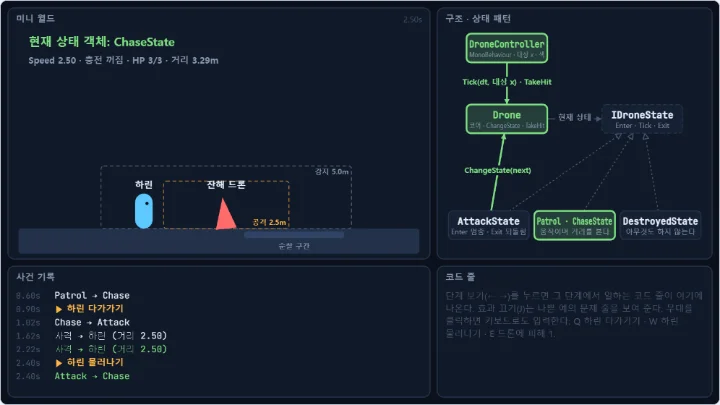
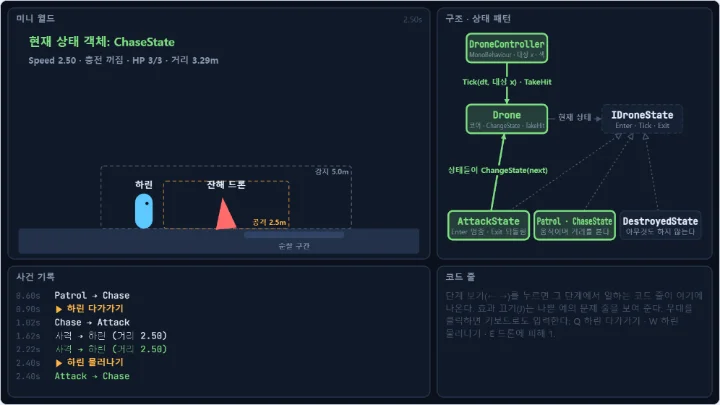
dispatch(state-drone-ai-fix): 표본 수정: state-drone-ai
Dispatch-Job: state-drone-ai-fix
Dispatch-Profile: org
Dispatch-Model: claude-opus-5-5

Changed region(s): [[0.6111, 0.5037, 0.7639, 0.5926], [0.6111, 0.4148, 0.7639, 0.4444]]

diff --git a/src/specimens/state-drone-ai/meta.ts b/src/specimens/state-drone-ai/meta.ts
@@ -18,7 +18,7 @@ export const meta: PatternMeta = {
   difficulty: 2,
   params: [
     { key: 'detectRange', label: '감지 거리', type: 'range', min: 3, max: 8, step: 0.5, default: 5, unit: 'm', hint: '하린이 가로 거리 이 안에 들어오면 순찰을 멈추고 쫓는다 (드론 둘레의 큰 점선 상자). 넓히면 멀리서 알아채고, 물러나서 따돌리기 어렵다' },
-    { key: 'attackRange', label: '공격 거리', type: 'range', min: 1.5, max: 4, step: 0.5, default: 2.5, unit: 'm', hint: '이 안이면 멈춰서 충전하고 쏜다 (주황 점선 상자). 넓히면 하린에게서 더 멀리 떨어져 멈춘다' },
+    { key: 'attackRange', label: '공격 거리', type: 'range', min: 1.5, max: 4, step: 0.5, default: 2.5, unit: 'm', hint: '이 안이면 멈춰서 충전하고 쏜다 (주황 점선 상자). 넓히면 하린에게서 더 멀리 떨어져 멈춘다. 다시 쫓는 것은 이보다 0.5m 더 멀어졌을 때다' },
     { key: 'chargeTime', label: '충전 시간', type: 'range', min: 0.2, max: 1.5, step: 0.1, default: 0.6, unit: '초', hint: '멈춘 뒤 한 발을 쏘기까지의 시간. 충전 막대의 흰 눈금이 이 값이다 (막대 끝은 최대값 1.5초). 나쁜 예는 이 값과 상관없이 한 발도 쏘지 못한다' },
     { key: 'moveSpeed', label: '이동 속도', type: 'range', min: 1, max: 5, step: 0.5, default: 2.5, unit: 'm/s', hint: '순찰과 추격의 빠르기. 공격에서 나갈 때 `AttackState.Exit` 가 속도를 이 값으로 되돌린다. 나쁜 예는 한 번 공격한 뒤로 이 값과 상관없이 0 이다' },
   ],
@@ -26,7 +26,7 @@ export const meta: PatternMeta = {
     { id: 'standard', name: '기본', look: '감지 5m, 공격 2.5m, 0.6초 충전', values: {} },
     { id: 'sniper', name: '멀리서 저격', look: '4m 앞에서 멈추고 1.2초 모아 쏜다', values: { attackRange: 4, chargeTime: 1.2 } },
     { id: 'rapid', name: '빠른 연사', look: '0.3초마다 쏜다', values: { chargeTime: 0.3 } },
-    { id: 'hunter', name: '끈질긴 추격', look: '7.5m 밖에서 알아채고 빠르게 쫓아온다', values: { detectRange: 7.5, moveSpeed: 4 } },
+    { id: 'hunter', name: '끈질긴 추격', look: '7.5m 앞에서 알아채고 빠르게 쫓아온다', values: { detectRange: 7.5, moveSpeed: 4 } },
   ],
   events: [
     { id: 'approach', label: '하린 다가가기' },
@@ -39,7 +39,7 @@ export const meta: PatternMeta = {
       id: 'approach-retreat-destroy',
       label: '다가가 공격받고, 물러났다 다시 다가가 파괴',
       duration: 6.5,
-      note: '자동 데모. 하린이 세 걸음 다가가면 0.60초에 추격, 1.02초에 멈춰서 공격하고 1.62초, 2.22초에 쏜다. 2.40초에 한 걸음 물러나면 `AttackState.Exit` 가 속도를 되돌려 바로 쫓아오고 2.82초에 다시 멈춘다. 3.40초에 다시 다가가고, 피해 세 번 만에 5.40초에 파괴된다. 나쁜 예는 1.62초에 충전이 끝나지 않고(✖), 2.40초에 `state = Chase` 인데 `speed = 0` 이라 제자리에 선다(✖). 3.40초에 하린이 다가와서야 공격 거리에 들지만 4.00초에 또 충전이 끝나지 않는다',
+      note: '자동 데모. 하린이 세 걸음 다가가면 0.60초에 추격, 1.02초에 멈춰서 공격하고 1.62초, 2.22초에 쏜다. 2.40초에 한 걸음 물러나면 `AttackState.Exit` 가 속도를 되돌려 바로 쫓아오고 2.82초에 다시 멈춘다. 3.40초에 다시 다가가고, 피해 세 번 만에 5.40초에 파괴된다. 나쁜 예는 1.62초에 충전이 끝나지 않고(✖), 2.40초에 `state = Chase` 인데 `speed = 0` 이라 제자리에 선다(✖). 3.40초에 하린이 다가와서야 공격 거리에 들지만 4.00초에 또 충전이 끝나지 않는다 (같은 드론의 같은 버그라 ✖ 없이 사건 줄로 남는다)',
       inputs: [
         [0.3, 'approach'],
         [0.6, 'approach'],
@@ -91,7 +91,7 @@ export const meta: PatternMeta = {
     edges: [
       { id: 'ctrl-drone', from: 'ctrl', to: 'drone', label: 'Tick(dt, 대상 x) · TakeHit', kind: 'call' },
       { id: 'drone-state', from: 'drone', to: 'istate', label: '현재 상태', kind: 'ref' },
-      { id: 'change', from: 'attack', to: 'drone', label: 'ChangeState(next)', kind: 'call' },
+      { id: 'change', from: 'attack', to: 'drone', label: '상태들이 ChangeState(next)', kind: 'call' },
       { id: 'i-attack', from: 'attack', to: 'istate', kind: 'implements' },
       { id: 'i-pc', from: 'pc', to: 'istate', kind: 'implements' },
       { id: 'i-destroyed', from: 'destroyed', to: 'istate', kind: 'implements' },
@@ -113,18 +113,18 @@ export const meta: PatternMeta = {
     ],
   },
   steps: [
-    { n: 1, label: '상태가 거리를 보고 다음을 정한다', body: '`DroneController` 가 매 프레임 하린의 x 를 `Drone.Tick` 에 넘기면, 드론은 지금 상태 객체의 `Tick` 에 맡긴다. `PatrolState` 는 감지 거리를, `ChaseState` 는 감지·공격 거리를, `AttackState` 는 공격 거리를 보고 넘어갈 때가 되면 `d.ChangeState(…)` 를 부른다. 체력은 `TakeHit` 이 보고 HP 가 0 이면 어느 상태에서든 `Destroyed` 로 바꾼다. 입력이 아니라 거리와 체력이 전이를 일으킨다.', target: 'ctrl-drone,pc,attack' },
+    { n: 1, label: '상태가 거리를 보고 다음을 정한다', body: '`DroneController` 가 매 프레임 하린의 x 를 `Drone.Tick` 에 넘기면, 드론은 지금 상태 객체의 `Tick` 에 맡긴다. `PatrolState` 는 감지 거리를, `ChaseState` 는 감지·공격 거리를, `AttackState` 는 공격 거리 + 0.5m(`LeaveMargin`)를 보고 넘어갈 때가 되면 `d.ChangeState(…)` 를 부른다. 공격에 들어가는 경계(2.5m)와 나가는 경계(3.0m)를 띄워 두어, 하린이 경계에서 천천히 물러나도 매 프레임 공격과 추격을 오가지 않는다. 피해(`hit`)는 `TakeHit` 이 받아 HP 가 0 이면 어느 상태에서든 `Destroyed` 로 바꾼다. 입력을 상태에 넘기지 않고, 드론이 조건(거리는 상태의 `Tick`, HP 는 `TakeHit`)을 보고 스스로 전이한다. `state-player-actions` 는 상태의 `Tick` 이 다음 상태를 돌려주고 `Player` 가 바꾸지만, 여기서는 상태가 `ChangeState` 를 직접 부른다.', target: 'ctrl-drone,pc,attack,change' },
     { n: 2, label: 'ChangeState 가 먼저 Exit 를 부른다', body: '상태는 `Drone.ChangeState` 한 곳에서만 바뀐다 (`State` 의 setter 는 `private`). 공격 중에 하린이 물러나면(자동 데모 2.40초) `AttackState.Tick` 이 `ChangeState(Chase)` 를 부르고, `ChangeState` 는 먼저 `AttackState.Exit` 를 불러 `Speed` 를 `moveSpeed` 로 되돌리고 충전을 끈다. 피해로 파괴될 때도 같은 `Exit` 를 지난다.', target: 'change,attack' },
     { n: 3, label: '다음 상태의 Enter 를 한 번', body: '그다음 들어가는 상태의 `Enter` 를 한 번 부른다. `AttackState.Enter` 가 `Speed` 를 0 으로 해 멈추고 충전을 0 에서 시작한다. 한 번만 부르므로 충전이 `chargeTime` 까지 차서 쏜다 (1.02초 진입, 1.62초 사격). 충전 막대의 흰 눈금이 `chargeTime` 이고 막대 끝은 최대값 1.5초다.', target: 'change,drone,attack' },
-    { n: 4, label: 'Tick 은 지금 상태의 일만', body: '`Drone.Tick` 에는 상태를 묻는 `switch` 가 없다. 움직이는 것은 `PatrolState` 와 `ChaseState` 뿐이고, `AttackState.Tick` 은 충전하고 쏘기만, `DestroyedState.Tick` 은 아무것도 하지 않는다. 충전한 시간과 속도는 `Drone` 이 들고 상태 객체는 `DroneStates` 의 static 한 벌이라, 드론이 몇 대든 같은 객체를 같이 쓴다.', target: 'drone-state,istate' },
+    { n: 4, label: 'Tick 은 지금 상태의 일만', body: '`Drone.Tick` 에는 상태를 묻는 `switch` 가 없다. 움직이는 것은 `PatrolState` 와 `ChaseState` 뿐이고, `AttackState.Tick` 은 대상 쪽으로 돌아보며 충전하고 쏘기만, `DestroyedState.Tick` 은 아무것도 하지 않는다. 충전한 시간과 속도는 `Drone` 이 들고 상태 객체는 `DroneStates` 의 static 한 벌이라, 드론이 몇 대든 같은 객체를 같이 쓴다.', target: 'drone-state,istate' },
   ],
-  offNote: '`enum DroneState` 와 `Update` 안의 `switch` 로 짠 흔한 코드다. 추격 case 가 공격으로 바꿀 때 `speed = 0` 을 하지만 공격 case 에서 나가는 곳에는 되돌리는 줄이 없어서, 하린이 공격 거리 밖으로 물러나면 `state = Chase` 인데 `speed = 0` 이라 드론이 제자리에 선다 (발밑의 빨간 "제자리"). 감지 거리 밖까지 물러나 `Patrol` 로 바뀌어도 그대로 서 있다. 또 공격 case 가 들어갈 때 한 번 할 충전 시작(`StartCharge`)을 매 프레임 불러 `chargeTimer` 가 0.02 에 머물고, 언제 공격에 들어가든 한 발도 쏘지 못한다 (충전 막대가 비어 있고 사격 0번). 기록의 ✖ 줄이 두 버그가 시작된 순간이다.',
+  offNote: '`enum DroneState` 와 `Update` 안의 `switch` 로 짠 흔한 코드다. 추격 case 가 공격으로 바꿀 때 `speed = 0` 을 하지만 공격 case 에서 나가는 곳에는 되돌리는 줄이 없어서, 하린이 공격 거리 밖으로 물러나면 `state = Chase` 인데 `speed = 0` 이라 드론이 제자리에 선다 (발밑의 빨간 "제자리"). 감지 거리 밖까지 물러나 `Patrol` 로 바뀌어도 그대로 서 있다. 또 공격 case 가 들어갈 때 한 번 할 충전 시작(`StartCharge`)을 매 프레임 불러 `chargeTimer` 가 0.02 (0 으로 돌린 뒤 한 프레임 dt, 1/60초를 더한 값)에 머물고, 언제 공격에 들어가든 한 발도 쏘지 못한다 (충전 막대가 비어 있고 사격 0번). 기록의 ✖ 줄이 두 버그가 시작된 순간이다.',
   mistakes: [
     { title: '공격하다 플레이어가 물러났는데 적이 제자리에 서서 안 쫓아온다', body: '공격에 들어갈 때 멈춘 속도(`speed = 0`)를 나갈 때 되돌리지 않았다. `switch` 에는 "이 상태에서 나갈 때" 의 자리가 없어서 나가는 길(추격으로, 파괴로)마다 되돌리는 줄을 따로 넣어야 하고, 하나만 빠져도 멈춘다. 들어갈 때 바꾼 것은 그 상태의 `Exit` 에서 되돌리고, 전이는 `ChangeState` 한 곳에서 해서 어느 길로 나가든 `Exit` 를 지나게 한다.' },
     { title: '충전 막대가 차지 않고 적이 한 번도 쏘지 않는다', body: '충전 시작, 애니메이션 트리거, 효과음처럼 들어갈 때 한 번 할 일을 `case` 안, 곧 매 프레임 도는 자리에 두었다. 같은 값을 넣는 `speed = 0` 은 매 프레임 해도 티가 나지 않아 괜찮아 보이지만, 타이머를 0 으로 되돌리는 일은 매 프레임 하면 끝나지 않는다. 한 번 할 일은 `Enter` 에, 매 프레임 할 일만 `Tick` 에 둔다.' },
-    { title: 'Exit 를 만들었는데도 가끔 속도가 돌아오지 않는다', body: '`state = …` 처럼 상태를 직접 바꾸는 줄이 `ChangeState` 밖에 남아 있어, 그 길로 나가면 `Exit` 와 `Enter` 의 짝이 깨진다. 이 표본은 `Drone.State` 의 setter 를 `private` 로 막아 `ChangeState` 로만 바꿀 수 있다. 피해로 파괴될 때도 `TakeHit` 이 `ChangeState(Destroyed)` 를 불러 `AttackState.Exit` 를 지난다.' },
+    { title: '충전 중에 맞아 파괴됐는데 충전 효과가 꺼지지 않는다', body: '피해 처리(`TakeHit`)는 상태의 `Tick` 밖, 플레이어의 공격 판정 같은 다른 스크립트에서 불린다. 거기서 `state = Destroyed` 처럼 바로 바꾸면 (나쁜 예의 `TakeHit` 이 그렇다) `AttackState.Exit` 를 건너뛰어 충전 표시와 충전 이펙트·소리가 켜진 채 남는다. 이 표본은 `Drone.State` 의 setter 를 `private` 로 막아 `TakeHit` 도 `ChangeState(Destroyed)` 를 거쳐 `Exit` 를 지난다. 상태 밖에서 오는 전이일수록 이 길을 지나는지 본다.' },
     { title: '드론 두 대를 놓았더니 한 대가 쏠 때 다른 대의 충전도 처음부터 다시 찬다', body: '상태 객체 안에 충전 시간 같은 드론별 값을 두고, 그 상태 객체를 여러 드론이 같이 썼다. 한 드론이 쏘고 값을 0 으로 돌리면 다른 드론의 값도 0 이 된다. 이 표본은 상태 객체를 `DroneStates` 의 static 한 벌로 같이 쓰는 대신 `ChargeTimer`, `Speed`, `Hp` 를 `Drone` 에 둔다. 상태 객체에 값을 꼭 두고 싶으면 드론마다 상태 객체를 새로 만든다.' },
-    { title: '파괴된 드론이 미끄러지거나 떨린다', body: '파괴 상태여도 다른 스크립트(넉백, 물리, 다른 이동 코드)가 같은 오브젝트를 계속 움직인다. 이 표본의 `DestroyedState.Tick` 은 아무것도 하지 않아 코어의 X 가 그대로이고, 어댑터는 매 `Update` 에 위치를 그 X 로 덮어쓴다. 그래서 다른 코드가 옮겨도 다음 프레임에 제자리로 돌아오는데, 그 사이가 떨림으로 보인다. 다른 이동 코드는 `Destroyed` 이벤트에서 끄거나, Rigidbody 가 있으면 그때 `isKinematic` 을 켠다.' },
+    { title: '넉백을 넣었는데 드론이 밀리지 않거나 한 프레임 튀고 돌아온다', body: '이 어댑터의 `Update` 는 상태와 상관없이 매 프레임 `transform.position` 을 코어의 `X` 로 덮어쓴다. 다른 스크립트(넉백, 폭발에 밀림)가 같은 오브젝트를 옮기면, 그 스크립트가 먼저 돌 때는 덮여서 조용히 무시되고, 나중에 돌 때는 그 프레임만 옮긴 자리에 그려졌다가 다음 프레임에 돌아온다. 어느 쪽인지는 스크립트 실행 순서에 달려 있어 찾기 어렵다. 위치의 주인은 하나만 둔다. 넉백도 코어에 알려 `X` 를 바꾸게 하거나 (`Drone` 에 `Push(dx)` 같은 메서드를 더한다), 파괴 뒤 물리로 떨어뜨리려면 `Destroyed` 이벤트에서 어댑터가 위치 덮어쓰기를 멈추고 Rigidbody 에 넘긴다.' },
   ],
   unity: {
     setup: [
@@ -133,17 +133,17 @@ export const meta: PatternMeta = {
       '드론에 `DroneController` 를 붙인다. 붙이는 순간 `Reset` 이 시연용 피해 키(H)와 `Body Renderer` 칸(같은 오브젝트의 Sprite Renderer 나 Mesh Renderer)을 채운다. 상태가 바뀔 때마다 이 렌더러의 색이 바뀐다 (순찰 회청색, 추격 주황, 공격 빨강, 파괴 검정).',
       '`Target` 칸에 플레이어 오브젝트를 끌어 넣는다. 웹 무대의 다가가기·물러나기(Q/W)는 하린을 움직이는 시연용 입력이라 Unity 어댑터에는 없다. 수강생의 플레이어를 원래 이동 코드 그대로 드론 쪽으로 걸리면 된다. 드론은 플레이어의 x 좌표만 본다. 플레이어가 아직 없으면 Cube 하나를 (-4, 0, 0) 에 두고 Play 중 Scene 뷰에서 x 로 끌어 옮겨도 된다.',
       '`Main Camera` 를 Position (1, 1.5, -10) 에 두고 Projection 을 `Orthographic`, Size 를 5 로 한다 (2D 템플릿은 처음부터 Orthographic 이다). x -8 부터 10 쯤까지 보여 순찰 구간과 플레이어가 함께 보인다.',
-      'Animator 가 있으면 `Animator` 칸에 넣고 상태 이름과 같은 Animator 상태(Patrol, Chase, Attack, Destroyed)를 만든다. Patrol 을 기본 상태(Set as Layer Default State)로 둔다. 시작 상태는 바뀐 적이 없어 CrossFade 되지 않기 때문이다.',
+      'Animator 가 있으면 `Animator` 칸에 넣고 상태 이름과 같은 Animator 상태(Patrol, Chase, Attack, Destroyed)를 만든다. Patrol 을 기본 상태(Set as Layer Default State)로 둔다. 상태가 바뀌면 어댑터가 `CrossFadeInFixedTime(상태 이름, 0.05초)` 로 넘기므로 Animator 쪽 전이 화살표는 만들지 않는다. 켤 때(`OnEnable`)는 지금 코어 상태로 `Play` 해 맞춘다.',
       'Play 하고 플레이어를 드론에 다가가게 했다가 물러나 본다. Console 에 `[Drone] Patrol → Chase`, `[Drone] Chase → Attack`, `[Drone] 사격 → 대상 (거리 2.48)` 같은 줄이 남고, Game 뷰 왼쪽 위에 지금 상태, 속도, HP 가 보인다. H 를 세 번 누르면 `Attack → Destroyed` (공격 중이었다면) 와 `파괴` 가 남는다.',
     ],
-    verify: '공격 거리 안에 서 있으면 `chargeTime` 마다 Console 에 `사격` 줄이 남고, 물러나면 `Attack → Chase` 가 남으며 왼쪽 위 속도가 0.0 에서 `moveSpeed` 로 돌아와 드론이 곧바로 다시 쫓아온다.',
+    verify: '공격 거리 안에 서 있으면 `chargeTime` 마다 Console 에 `사격` 줄이 남고, 물러나면 `Attack → Chase` 가 남으며 왼쪽 위 속도가 0.0 에서 `moveSpeed` 로 돌아와 드론이 곧바로 다시 쫓아온다. 플레이어를 공격 거리 경계에서 천천히 물러나게 해도 `Attack → Chase` 는 공격 거리보다 0.5m 더 멀어졌을 때 한 번만 남고, 매 프레임 쌓이지 않는다.',
     pitfalls: [
       '거리는 가로(x) 거리다. 어댑터는 플레이어의 y 와 z 를 보지 않고, 드론의 y·z 도 시작 자리 그대로 둔다 (시작 자리에 코어의 X 만 더한다). 3D 에서 z 로도 걷는 게임이면 `Drone.Distance` 를 평면 거리로 바꾸고 코어에 x, z 를 함께 넘긴다.',
       '이 표본은 원리를 보이려고 `transform.position` 을 직접 옮기고 벽이나 바닥과의 충돌을 보지 않는다. 장애물을 돌아와야 하면 `ChaseState` 가 정한 목표를 NavMeshAgent 같은 이동 컴포넌트에 넘기고, 멈추기(`AttackState.Enter`)와 되돌리기(`AttackState.Exit`)도 그 컴포넌트의 `isStopped` 로 옮긴다. 짝은 그대로 Enter 와 Exit 에 둔다.',
-      '`Time.timeScale` 이 0 이어도 `Update` 는 돌아 `Tick(0)` 이 불린다. 이동과 충전은 멈추지만 거리로 넘어가는 전이는 그대로 일어나고 (일시정지 중 Scene 뷰에서 플레이어를 옮기면 상태가 바뀐다), 시연용 피해 키(H)도 그대로 받는다. 일시정지 중 조작을 막으려면 입력도 함께 끈다.',
-      '드론을 여러 대 놓아도 상태 객체는 `DroneStates` 의 static 한 벌을 같이 쓴다. 충전 시간, 속도, HP 는 드론마다 `Drone` 이 따로 들어 섞이지 않는다. 화면 글(`Show Status On Screen`)은 모두 같은 자리에 그려지므로 한 대만 켠다.',
-      '3D 의 `Body Renderer` 색은 `material` 로 칠해 그 렌더러만의 머티리얼 사본을 만든다. 같은 머티리얼을 쓰는 다른 오브젝트에는 번지지 않는다. `maxHp` 는 Play 를 시작할 때만 읽고, 나머지 조절 값은 Play 중에 바꿔도 `OnValidate` 가 코어에 넣는다.',
-      '`InputAction` 은 `OnEnable` 에서 콜백을 붙이고 `Enable`, `OnDisable` 에서 떼고 `Disable` 한다. 떼지 않으면 다시 켤 때 콜백이 두 번 붙어 한 번 누를 때 피해가 두 번 들어간다. 코드에서 만드는 액션은 `InputActionType.Button` 으로 만든다.',
+      '`Time.timeScale` 이 0 이어도 `Update` 는 돌아 `Tick(0)` 이 불린다. 이동과 충전은 멈추지만 거리로 넘어가는 전이는 그대로 일어나고 (일시정지 중 Scene 뷰에서 플레이어를 옮기면 상태가 바뀐다), 시연용 피해 키(H)도 그대로 받는다. 일시정지 중 조작을 막으려면 입력도 함께 끈다. `InputAction` 은 `OnEnable` 에서 콜백을 붙이고 `Enable`, `OnDisable` 에서 떼고 `Disable` 한다. 떼지 않으면 다시 켤 때 콜백이 두 번 붙어 한 번 누를 때 피해가 두 번 들어간다.',
+      '거리로 전이하는 상태는 Unity 의 연속 이동에서 경계 위를 오갈 수 있다. 공격에 들어가는 경계(`<= attackRange`)와 나가는 경계가 같으면, 플레이어가 드론보다 느리게 계속 물러날 때 멈춤 → 벗어남 → 한 프레임 쫓아 다시 들어옴이 매 프레임 되풀이되어 `CrossFade` 가 매 프레임 불리고 충전이 늘 처음부터라 한 발도 쏘지 못한다. 그래서 `AttackState` 는 `attackRange + LeaveMargin`(0.5m)을 넘어야 나간다. 웹 시나리오는 하린이 1m 걸음으로 움직여 이 깜박임이 보이지 않는다. 여유를 바꾸려면 `AttackState.LeaveMargin` 을 고친다.',
+      '드론을 여러 대 놓아도 상태 객체는 `DroneStates` 의 static 한 벌을 같이 쓴다. 충전 시간, 속도, HP 는 드론마다 `Drone` 이 따로 들어 섞이지 않는다. 화면 글(`Show Status On Screen`)은 확인용 IMGUI(`OnGUI` 의 `GUI.Label`)이고 실제 게임의 표시는 UGUI·TextMeshPro 로 만든다. 모든 드론이 같은 자리에 그리므로 여럿이면 한 대만 켠다.',
+      '색과 Animator 상태는 `StateChanged` 이벤트로만 맞춘다. 드론 오브젝트를 껐다 켜면 Animator 는 기본 상태(Patrol)로 돌아가지만 코어는 공격·파괴 그대로라, `OnEnable` 에서 지금 코어 상태로 색을 칠하고 `Animator.Play` 한다. 3D 의 `Body Renderer` 색은 `material` 로 칠해 그 렌더러만의 머티리얼 사본을 만든다. `maxHp` 는 Play 를 시작할 때만 읽고, 나머지 조절 값은 Play 중에 바꿔도 `OnValidate` 가 코어에 넣는다 (지금 속도는 순찰·추격일 때만 바로 바꾸고, 공격 중이면 `AttackState.Exit` 가 나갈 때 새 값을 넣는다).',
     ],
   },
   prompt: {
@@ -163,7 +163,7 @@ export const meta: PatternMeta = {
     { label: 'Unity 전자책: 디자인 패턴과 SOLID 로 코드 레벨업 (상태 패턴 장)', url: 'https://unity.com/resources/design-patterns-solid-ebook' },
   ],
   related: [
-    { id: 'state-player-actions', why: '같은 상태 패턴인데 그쪽은 플레이어 입력으로 전이하고 나쁜 예가 bool 플래그 덩어리이고, 이쪽은 거리와 체력으로 스스로 전이하고 나쁜 예가 enum + switch 다' },
+    { id: 'state-player-actions', why: '같은 상태 패턴인데 그쪽은 입력을 상태에 넘겨 상태가 거르고 `Tick` 이 다음 상태를 돌려주며 나쁜 예가 bool 플래그 덩어리다. 이쪽은 입력을 상태에 넘기지 않고 상태가 거리를 보고 `ChangeState` 를 직접 부르며 나쁜 예가 enum + switch 다' },
     { id: 'strategy-turret-targeting', why: '구조는 비슷하다. 다음 상태를 스스로 정하면 상태, 바깥이 골라 끼우면 전략이다. 드론이 누구를 쏠지 고르는 일은 전략으로 뺄 수 있다' },
     { id: 'observer-health-events', why: '`Damaged`, `Destroyed` 를 이벤트로 알리면 HP 바, 소리, 점수가 드론을 모른 채 각자 구독한다' },
   ],

diff --git a/src/specimens/state-drone-ai/sim.ts b/src/specimens/state-drone-ai/sim.ts
@@ -144,6 +144,9 @@ const ChaseState: IDroneState = {
   },
 }
 
+/** AttackState.LeaveMargin: 공격 거리 + 이만큼보다 멀어져야 추격으로 나간다 (들어가는 경계와 나가는 경계를 띄운다) */
+const LeaveMargin = f(0.5)
+
 const AttackState: IDroneState = {
   Name: 'Attack',
   Enter(d) {
@@ -158,10 +161,11 @@ const AttackState: IDroneState = {
     d.Charging = false
   },
   Tick(d, dt) {
-    if (d.Distance > d.Settings.AttackRange) {
+    if (d.Distance > f(d.Settings.AttackRange + LeaveMargin)) {
       d.ChangeState(DroneStates.Chase)
       return
     }
+    d.FaceTarget()
     d.ChargeTimer = f(d.ChargeTimer + dt)
     if (d.ChargeTimer >= d.Settings.ChargeTime) {
       d.Fire()
@@ -175,6 +179,7 @@ const DestroyedState: IDroneState = {
   Enter(d) {
     d.Speed = 0
   },
+  /** 나가는 전이가 없어 되돌리지 않는다. 부활을 더하면 여기서 속도를 되돌린다 */
   Exit() {},
   Tick() {},
 }
@@ -204,7 +209,6 @@ class NaiveDrone {
   speed = 0
   hp = 0
   chargeTimer = 0
-  isCharging = false
   shots = 0
 
   Start() {
@@ -219,7 +223,6 @@ class NaiveDrone {
   }
 
   StartCharge() {
-    this.isCharging = true
     this.chargeTimer = 0
   }
 
@@ -308,7 +311,12 @@ function scene(d: DroneLook, harinX: number, chargeColor: string, chargeLabel: s
       { kind: 'text', x: d.x + d.attack - 0.12, y: 1.15, text: `공격 ${d.attack.toFixed(1)}m`, align: 'right', size: 16, color: C.warn },
     )
   }
-  world.push({ kind: 'actor', x: d.x, y: 1, role: 'enemy', label: destroyed ? '잔해 드론 · 파괴' : '잔해 드론', pose: POSE[d.state], facing: d.facing === 1 ? 1 : -1 })
+  world.push({ kind: 'actor', x: d.x, y: 1, role: 'enemy', label: destroyed ? undefined : '잔해 드론', pose: POSE[d.state], facing: d.facing === 1 ? 1 : -1 })
+  if (destroyed) {
+    // 쓰러진 드론의 이름표는 낮게 놓이므로 가운데에 두면 가까이 선 하린과 겹친다. 하린 반대쪽으로 붙여 쓴다
+    const away = harinX <= d.x ? 1 : -1
+    world.push({ kind: 'text', x: d.x - away * 0.25, y: 1.75, text: '잔해 드론 · 파괴', align: away > 0 ? 'left' : 'right', size: 20, color: C.text })
+  }
   if (d.state === 'Attack') {
     const left = d.x - 0.8
     world.push(
@@ -348,9 +356,14 @@ export const createSim: SimFactory =(values: ParamValues, naive: boolean): Patte
     settings.ChargeTime = num('chargeTime')
     settings.MoveSpeed = num('moveSpeed')
     const drone = new Drone(settings)
+    /** 마지막 전이를 누가 불렀나: 상태의 Tick 이면 그 상태 노드, 피해(TakeHit)면 null */
+    let changeBy: string | null = null
+    let changeFrom = 'pc'
     drone.StateChanged.add((from, to) => {
       events.push(`${from} → ${to}`)
       lastChangeAt = clock
+      changeFrom = STATE_NODE[from]
+      changeBy = to === 'Destroyed' ? null : STATE_NODE[from]
     })
     drone.Fired.add(x => {
       events.push(`사격 → 하린 (거리 ${F2(Math.abs(f(x - drone.X)))})`)
@@ -390,14 +403,18 @@ export const createSim: SimFactory =(values: ParamValues, naive: boolean): Patte
         )
         world.push(
           { kind: 'text', x: 0.4, y: 8.3, text: `현재 상태 객체: ${name}State`, align: 'left', size: 26, color: C.accent },
-          { kind: 'text', x: 0.4, y: 7.6, text: `Speed ${F2(drone.Speed)} · 충전 ${drone.Charging ? `${F2(drone.ChargeTimer)} / ${F2(settings.ChargeTime)}초` : '꺼짐'} · HP ${drone.Hp}/${settings.MaxHp} · 거리 ${F2(drone.Distance)}m`, align: 'left', size: 20, color: C.dim },
+          { kind: 'text', x: 0.4, y: 7.6, text: `Speed ${F2(drone.Speed)} · 충전 ${drone.Charging ? `${F2(drone.ChargeTimer)} / ${F2(settings.ChargeTime)}초` : '꺼짐'} · HP ${drone.Hp}/${settings.MaxHp} · 거리 ${F2(drone.Distance)}m${name === 'Attack' ? ` (${F2(f(settings.AttackRange + LeaveMargin))}m 넘으면 추격)` : ''}`, align: 'left', size: 20, color: C.dim },
         )
         if (clock - lastFireAt < 0.25) world.push({ kind: 'arrow', x1: drone.X + drone.Facing * 0.35, y1: 1.75, x2: shotX + (shotX < drone.X ? 0.3 : -0.3), y2: 1.75, color: C.warn }, { kind: 'ring', x: shotX, y: 1.7, r: 0.6, color: C.warn })
         if (clock - lastHitAt < 0.3) world.push(...hitMark(harinX, drone.X))
         const active = [STATE_NODE[name]]
         if (clock - lastMoveAt < 0.3) active.push('ctrl', 'ctrl-drone')
         if (clock - lastHitAt < 0.3) active.push('ctrl-drone', 'drone')
-        if (clock - lastChangeAt < 0.3) active.push('change', 'drone')
+        if (clock - lastChangeAt < 0.3) {
+          // 상태의 Tick 이 부른 전이면 그 상태와 ChangeState 화살표, 피해로 파괴됐으면 Drone.TakeHit 이 불러 Exit 하는 상태만
+          if (changeBy) active.push('change', 'drone', changeBy)
+          else active.push('drone', changeFrom)
+        }
         return { world, active }
       },
     }
@@ -415,10 +432,13 @@ export const createSim: SimFactory =(values: ParamValues, naive: boolean): Patte
   let lastShots = n.shots
   let attackTime = 0
   const bug = { stuck: false, charge: false }
+  /** 이 드론에서 ✖ 로 이미 쓴 버그 (Target.cs 의 reportedStuck, reportedCharge) */
+  const reported = { stuck: false, charge: false }
   let bugAt = -9
-  const report = (now: boolean, key: keyof typeof bug, message: string) => {
+  const report = (now: boolean, key: keyof typeof bug, message: string, again: string) => {
     if (now && !bug[key]) {
-      events.push(message)
+      events.push(reported[key] ? again : `!${message}`)
+      reported[key] = true
       bugAt = clock
     }
     bug[key] = now
@@ -436,8 +456,13 @@ export const createSim: SimFactory =(values: ParamValues, naive: boolean): Patte
     lastHp = n.hp
     if (n.shots !== lastShots) events.push('사격')
     lastShots = n.shots
-    report(moving() && n.speed === 0, 'stuck', `!이동 멈춤: state = ${n.state} 인데 speed = 0`)
-    report(n.state === 'Attack' && attackTime >= n.ChargeTime, 'charge', `!충전이 끝나지 않는다: chargeTime ${F2(n.ChargeTime)}초가 지났는데 chargeTimer = ${F2(n.chargeTimer)}`)
+    report(moving() && n.speed === 0, 'stuck', `이동 멈춤: state = ${n.state} 인데 speed = 0`, `또 멈춤 (state = ${n.state}, speed = 0)`)
+    report(
+      n.state === 'Attack' && attackTime >= n.ChargeTime,
+      'charge',
+      `충전이 끝나지 않는다: chargeTime ${F2(n.ChargeTime)}초가 지났는데 chargeTimer = ${F2(n.chargeTimer)}`,
+      `또 충전이 끝나지 않음 (chargeTimer = ${F2(n.chargeTimer)})`,
+    )
   }
   const step = (toward: number) => {
     const dir = n.X >= harinX ? 1 : -1

diff --git a/unity/state-drone-ai/Unity/DroneController.cs b/unity/state-drone-ai/Unity/DroneController.cs
@@ -10,7 +10,7 @@ namespace PatternGallery.StateDroneAi
         [Header("조절 값 (웹 갤러리와 같은 이름. Play 중에 바꿔도 반영된다)")]
         [Tooltip("대상이 가로(x) 거리 이 안에 들어오면 쫓는다 (m)")]
         [SerializeField] float detectRange = 5f;
-        [Tooltip("대상이 가로(x) 거리 이 안이면 멈춰서 충전하고 쏜다 (m)")]
+        [Tooltip("대상이 가로(x) 거리 이 안이면 멈춰서 충전하고 쏜다 (m). 나갈 때는 이보다 AttackState.LeaveMargin(0.5m) 더 멀어져야 다시 쫓는다")]
         [SerializeField] float attackRange = 2.5f;
         [Tooltip("멈춘 뒤 한 발을 쏘기까지의 충전 시간 (초). 바꾸면 지금 충전 중인 한 발부터 새 값으로 비교한다")]
         [SerializeField] float chargeTime = 0.6f;
@@ -83,8 +83,11 @@ namespace PatternGallery.StateDroneAi
             DroneCore.Destroyed += OnDestroyed;
             testHitAction.performed += OnTestHit;
             testHitAction.Enable();
-            // 시작 상태(Patrol)는 바뀐 적이 없어 StateChanged 가 오지 않는다. 지금 상태의 색과 글을 한 번 맞춘다
-            ShowState(DroneCore.State.Name);
+            // 색과 Animator 는 이벤트로만 맞춘다. 시작 상태는 바뀐 적이 없어 StateChanged 가 오지 않고,
+            // 껐다 켜면 Animator 는 기본 상태로 돌아가지만 코어는 그대로다. 그래서 켤 때마다 지금 코어 상태로 한 번 맞춘다
+            string now = DroneCore.State.Name;
+            ShowState(now);
+            if (animator != null && animator.isActiveAndEnabled) animator.Play(now, 0, 0f); // 전환 없이 바로 그 상태로
         }
 
         void OnDisable()
@@ -107,8 +110,12 @@ namespace PatternGallery.StateDroneAi
             s.AttackRange = attackRange;
             s.ChargeTime = chargeTime;
             s.MoveSpeed = moveSpeed;
-            // 움직이는 상태(순찰, 추격)면 지금 속도도 바꾼다. 멈춘 상태(공격, 파괴)는 그대로 두고, 공격은 Exit 가 되돌릴 때 새 값을 쓴다
-            if (droneCore.Speed > 0f) droneCore.Speed = moveSpeed;
+            // 지금 속도는 상태를 보고 넣는다 (Speed > 0 으로 고르면 moveSpeed 를 0 으로 했다 되돌릴 때 순찰이 멈춘 채 남는다).
+            // 멈춘 상태(공격, 파괴)는 그대로 두고, 공격은 Exit 가 되돌릴 때 새 값을 쓴다
+            IDroneState state = droneCore.State;
+            bool stopped = state == DroneStates.Attack || state == DroneStates.Destroyed;
+            if (!stopped) droneCore.Speed = moveSpeed;
+            RefreshText();
         }
 
         void OnTestHit(InputAction.CallbackContext _) => TakeHit(1);
@@ -121,7 +128,8 @@ namespace PatternGallery.StateDroneAi
             // 대상의 x 를 코어 좌표로 바꿔 넘긴다. 대상이 없으면 아주 먼 곳으로 보아 감지하지 않는다
             float targetX = target != null ? target.position.x - origin.x : float.PositiveInfinity;
             DroneCore.Tick(Time.deltaTime, targetX); // [4] 무엇을 할지는 지금 상태가 정한다. 여기에는 상태를 묻는 if 가 없다
-            // 원리를 보이려고 transform 을 직접 옮긴다. 코어의 X 는 순찰과 추격 상태만 바꾸므로 공격·파괴 중에는 제자리다
+            // 원리를 보이려고 transform 을 직접 옮긴다. 코어의 X 는 순찰과 추격 상태만 바꾸므로 공격·파괴 중에는 제자리다.
+            // 모든 상태에서 매 프레임 덮어쓰므로 다른 스크립트(넉백 등)가 옮긴 x 는 남지 않는다. 그런 이동은 코어에 알린다
             transform.position = origin + new Vector3(DroneCore.X, 0f, 0f);
             transform.localScale = new Vector3(Mathf.Abs(baseScale.x) * DroneCore.Facing, baseScale.y, baseScale.z);
         }
@@ -130,7 +138,7 @@ namespace PatternGallery.StateDroneAi
         {
             Log($"{from} → {to}");
             ShowState(to); // [3] 들어간 상태의 색, 애니메이션
-            if (animator != null) animator.CrossFade(to, 0.05f); // 상태 이름 = Animator 상태 이름
+            if (animator != null) animator.CrossFadeInFixedTime(to, 0.05f); // 상태 이름 = Animator 상태 이름. 0.05초에 걸쳐 넘어간다
         }
 
         void OnFired(float targetX)

diff --git a/truth/state-drone-ai/Target.cs b/truth/state-drone-ai/Target.cs
@@ -26,7 +26,8 @@ namespace PatternGallery.StateDroneAi
         int lastShots;
         /// <summary>나쁜 예가 공격 case 를 돈 시간. 패턴이라면 충전이 다 찼을 시각을 알려고 센다</summary>
         float attackTime;
-        bool bugStuck, bugCharge;
+        /// <summary>버그가 지금 켜져 있는지와, 이 드론에서 ✖ 로 이미 썼는지</summary>
+        bool bugStuck, bugCharge, reportedStuck, reportedCharge;
 
         public Target(Values v, bool isNaive)
         {
@@ -90,9 +91,14 @@ namespace PatternGallery.StateDroneAi
             NaiveEvents();
         }
 
-        void Bug(bool now, ref bool last, string message)
+        /// <summary>버그가 켜지는 순간 쓴다. 같은 드론의 같은 버그는 ✖('!')로 한 번만 쓰고, 다시 켜지면 '!' 없는 사건 줄(again)로 쓴다</summary>
+        void Bug(bool now, ref bool last, ref bool reported, string message, string again)
         {
-            if (now && !last) events.Add(message);
+            if (now && !last)
+            {
+                events.Add(reported ? again : "!" + message);
+                reported = true;
+            }
             last = now;
         }
 
@@ -107,8 +113,12 @@ namespace PatternGallery.StateDroneAi
             if (naive.shots != lastShots) events.Add("사격");
             lastShots = naive.shots;
             bool moving = naive.state == DroneState.Patrol || naive.state == DroneState.Chase;
-            Bug(moving && naive.speed == 0f, ref bugStuck, $"!이동 멈춤: state = {naive.state} 인데 speed = 0");
-            Bug(naive.state == DroneState.Attack && attackTime >= naive.ChargeTime, ref bugCharge, $"!충전이 끝나지 않는다: chargeTime {Fmt.F(naive.ChargeTime)}초가 지났는데 chargeTimer = {Fmt.F(naive.chargeTimer)}");
+            Bug(moving && naive.speed == 0f, ref bugStuck, ref reportedStuck,
+                $"이동 멈춤: state = {naive.state} 인데 speed = 0",
+                $"또 멈춤 (state = {naive.state}, speed = 0)");
+            Bug(naive.state == DroneState.Attack && attackTime >= naive.ChargeTime, ref bugCharge, ref reportedCharge,
+                $"충전이 끝나지 않는다: chargeTime {Fmt.F(naive.ChargeTime)}초가 지났는데 chargeTimer = {Fmt.F(naive.chargeTimer)}",
+                $"또 충전이 끝나지 않음 (chargeTimer = {Fmt.F(naive.chargeTimer)})");
         }
 
         public IEnumerable<string> Drain()

diff --git a/unity/state-drone-ai/Core/DroneStates.cs b/unity/state-drone-ai/Core/DroneStates.cs
@@ -1,4 +1,4 @@
-// 드론 상태들: 순찰, 추격, 공격, 파괴. 상태마다 Tick 에서 거리를 보고 다음 상태를 스스로 정하고, 들어갈 때 바꾼 것은 나올 때 되돌린다.
+// 드론 상태들: 순찰, 추격, 공격, 파괴. 상태마다 Tick 에서 거리를 보고 d.ChangeState 를 불러 스스로 전이하고, 들어갈 때 바꾼 것은 나올 때 되돌린다.
 namespace PatternGallery.StateDroneAi
 {
     public interface IDroneState
@@ -68,6 +68,13 @@ namespace PatternGallery.StateDroneAi
     {
         public string Name => "Attack";
 
+        /// <summary>
+        /// 나가는 경계의 여유 (m). 공격 거리 + 이만큼보다 멀어져야 추격으로 나간다.
+        /// 들어가는 경계(&lt;= AttackRange)와 나가는 경계가 같으면, 대상이 드론보다 느리게 물러날 때 Unity 의 연속 이동에서
+        /// 멈춤 → 벗어남 → 한 프레임 쫓아 다시 들어옴을 매 프레임 되풀이한다 (전이와 CrossFade 가 매 프레임, 충전은 늘 처음부터)
+        /// </summary>
+        public const float LeaveMargin = 0.5f;
+
         public void Enter(Drone d)
         {
             d.Speed = 0f; // [3] 멈춰서 쏜다
@@ -85,11 +92,12 @@ namespace PatternGallery.StateDroneAi
 
         public void Tick(Drone d, float dt)
         {
-            if (d.Distance > d.Settings.AttackRange)
+            if (d.Distance > d.Settings.AttackRange + LeaveMargin)
             {
-                d.ChangeState(DroneStates.Chase); // [1] 벗어나면 다시 쫓는다
+                d.ChangeState(DroneStates.Chase); // [1] 여유까지 벗어나면 다시 쫓는다
                 return;
             }
+            d.FaceTarget(); // 대상이 드론을 지나쳐 가도 등을 돌린 채 쏘지 않게 돌아본다
             d.ChargeTimer += dt; // [4] 공격 상태의 일: 충전하고 다 차면 쏜다
             if (d.ChargeTimer >= d.Settings.ChargeTime)
             {
@@ -108,6 +116,7 @@ namespace PatternGallery.StateDroneAi
             d.Speed = 0f;
         }
 
+        /// <summary>나가는 전이가 없어 Enter 에서 멈춘 속도를 되돌리지 않는다. 부활을 더하면 여기서 속도를 되돌린다</summary>
         public void Exit(Drone d) { }
 
         /// <summary>파괴된 드론은 아무것도 하지 않는다. 이 상태에서 나가는 전이도 없다</summary>

diff --git a/unity/state-drone-ai/Naive/NaiveDrone.cs b/unity/state-drone-ai/Naive/NaiveDrone.cs
@@ -26,7 +26,6 @@ namespace PatternGallery.StateDroneAi.Naive
         public float speed;
         public int hp;
         public float chargeTimer;
-        public bool isCharging;
         /// <summary>쏜 횟수 (사격 효과 대신)</summary>
         public int shots;
 
@@ -43,9 +42,9 @@ namespace PatternGallery.StateDroneAi.Naive
             if (hp <= 0) state = DroneState.Destroyed;
         }
 
+        /// <summary>충전을 처음부터 시작한다. 실제 게임이라면 여기서 충전 이펙트와 소리도 켠다</summary>
         void StartCharge()
         {
-            isCharging = true;
             chargeTimer = 0f;
         }
 
@@ -84,10 +83,10 @@ namespace PatternGallery.StateDroneAi.Naive
                 case DroneState.Attack:
                     if (distance > AttackRange)
                     {
-                        state = DroneState.Chase; // [!] 멈출 때 0 으로 한 speed 를 되돌리는 곳이 없다. 추격 case 가 speed 0 으로 걷는다
+                        state = DroneState.Chase; // [!] 공격에 들 때 0 으로 한 speed 를 되돌리지 않아 추격이 제자리에 선다
                         break;
                     }
-                    StartCharge(); // [!] 들어갈 때 한 번 할 일(충전 시작)을 case 안에서 매 프레임 부른다. chargeTimer 가 매번 0 이 된다
+                    StartCharge(); // [!] 한 번 할 충전 시작을 매 프레임 불러 chargeTimer 가 매번 0 이 된다
                     chargeTimer += dt;
                     if (chargeTimer >= ChargeTime)
                     {
